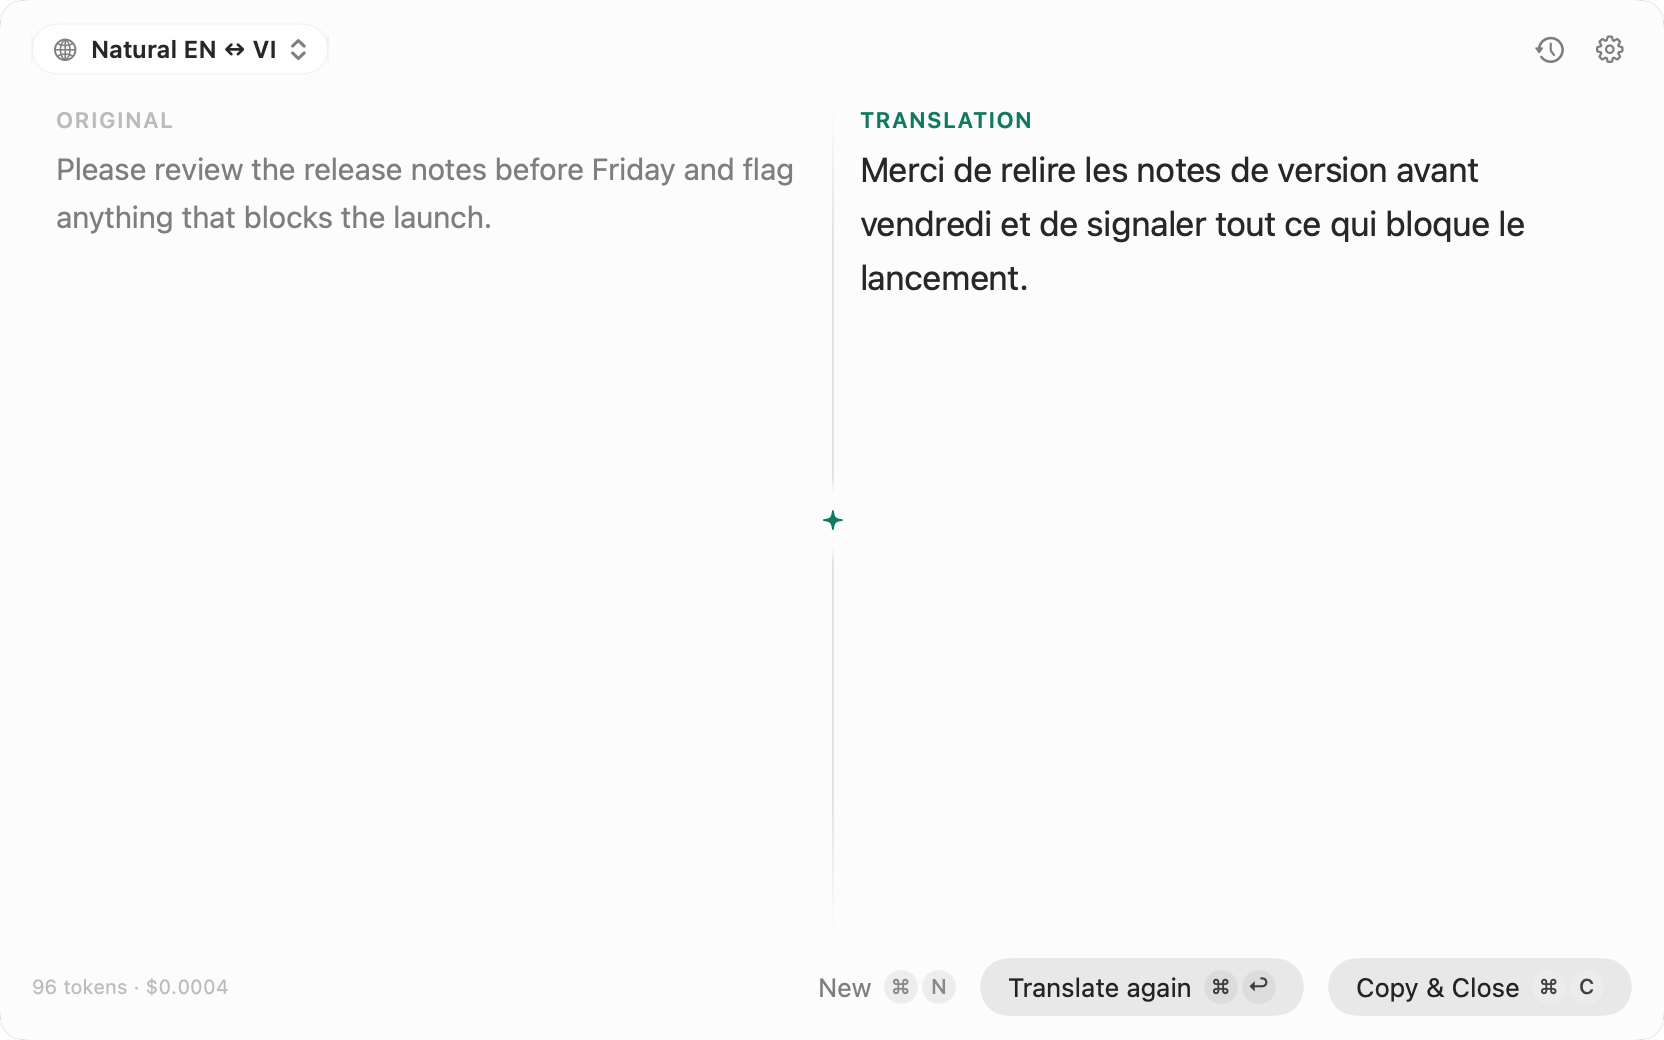
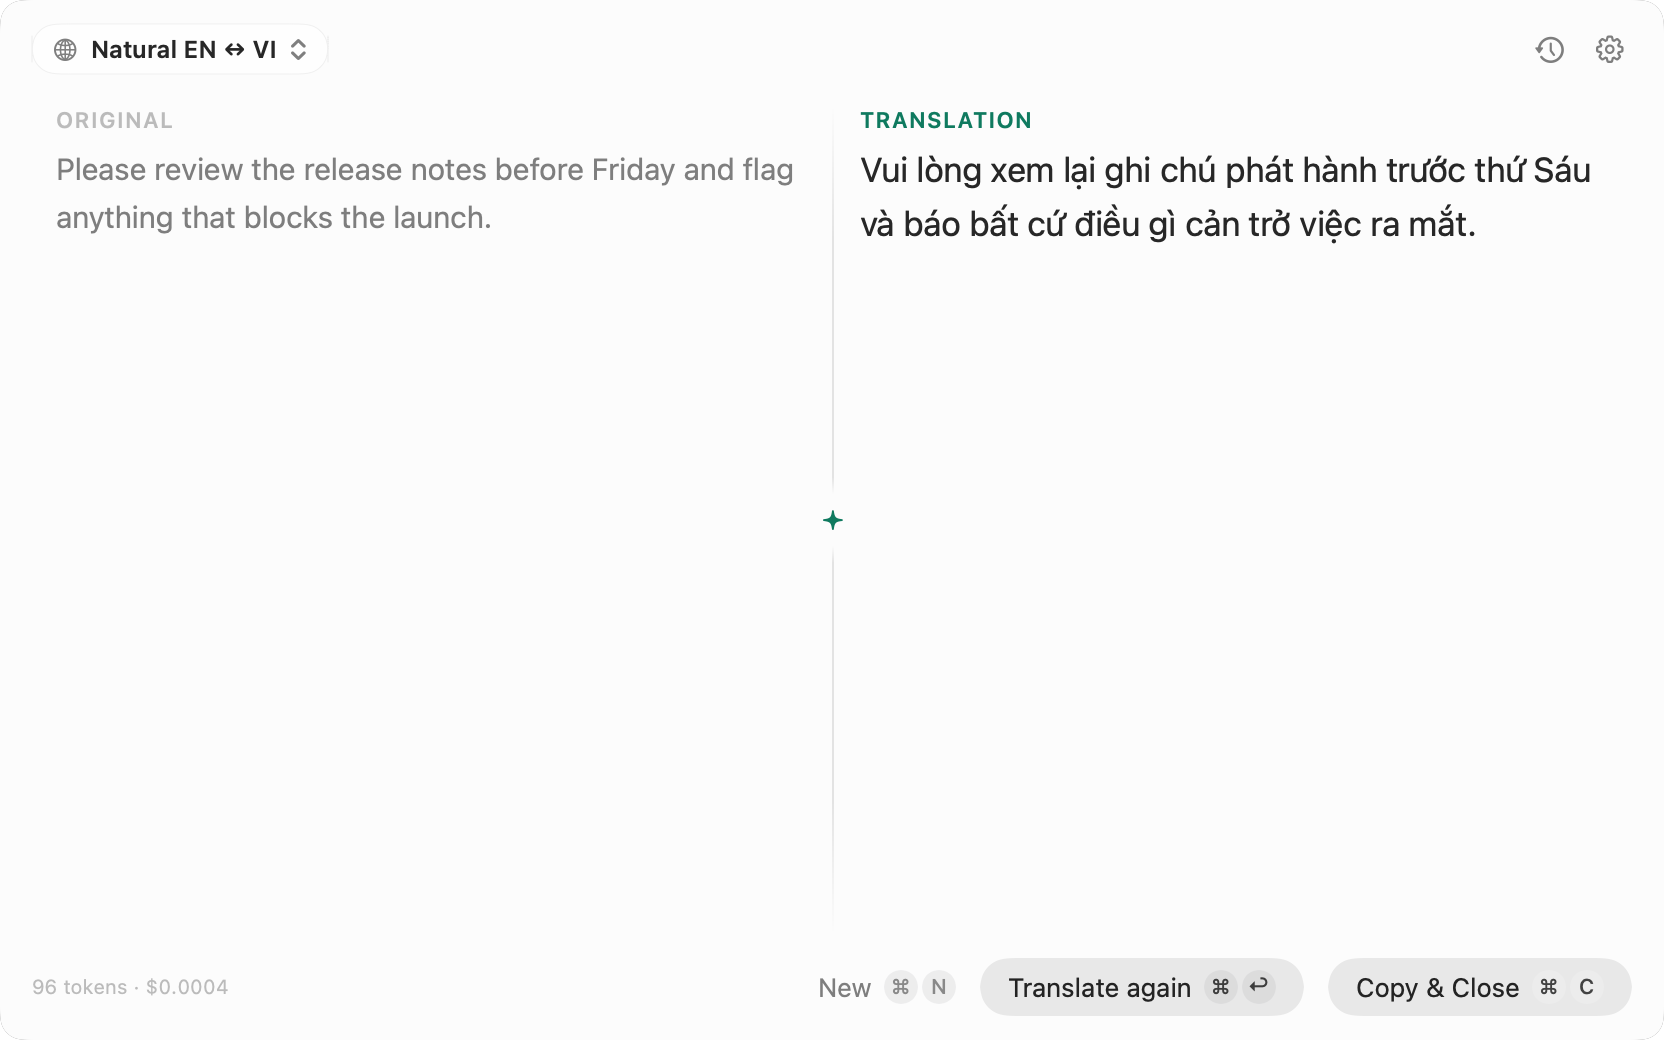
feat(screenshots): translate the sample text into Vietnamese
The popup opens on Natural EN ↔ VI, so its sample translation now reads
in Vietnamese, the same sentence the website's clips show. The site's
popup captures are retaken from it.

Changed region(s): [[0.5, 0.1538, 0.9688, 0.2769]]

diff --git a/TransFlex/Sources/App/ScreenshotMode.swift b/TransFlex/Sources/App/ScreenshotMode.swift
@@ -43,8 +43,8 @@ enum ScreenshotMode {
 
     private static func makeShots() -> [Shot] {
         let presets = samplePresetStore()
-        let source = "Please review the release notes before Friday and flag anything that blocks the launch."
-        let result = "Merci de relire les notes de version avant vendredi et de signaler tout ce qui bloque le lancement."
+        let source = ClipScript.sampleSource
+        let result = ClipScript.sampleTranslation
         let wide = NSSize(width: 832, height: 520)
         let narrow = NSSize(width: 640, height: 520)
 
@@ -149,11 +149,12 @@ enum ScreenshotMode {
         }
         let now = Date()
         let preset = presets.presets.first?.id ?? UUID()
+        let vietnamese = SampleText.vietnamese
         let samples: [(String, String, UUID, String, Double?, TimeInterval)] = [
-            ("Please review the release notes before Friday.", "Merci de relire les notes de version avant vendredi.",
+            ("Please review the release notes before Friday.", vietnamese["historyShort"] ?? "",
              preset, "gpt-4o", 0.0004, -600),
-            ("See you tomorrow.", "A demain.", preset, "gpt-6-luna", nil, -1_200),
-            ("Cette version corrige le bug de connexion.", "This release fixes the sign-in bug.",
+            ("See you tomorrow.", vietnamese["historyTomorrow"] ?? "", preset, "gpt-6-luna", nil, -1_200),
+            (vietnamese["historyFixSource"] ?? "", "This release fixes the sign-in bug.",
              UUID(), "gpt-4o", 0.0004, -86_400),
         ]
         for (input, output, presetID, model, cost, offset) in samples {
@@ -178,7 +179,7 @@ enum ScreenshotMode {
             store = try HistoryStore(inMemory: true)
             try store.insert(HistoryEntry(
                 presetID: presets.presets.first?.id ?? UUID(), providerID: "openai", modelID: "gpt-4o",
-                inputText: nil, outputText: "Merci de relire les notes de version avant vendredi.",
+                inputText: nil, outputText: SampleText.vietnamese["historyShort"] ?? "",
                 hadImage: true, durationMs: 1_400, tokenCount: 880,
                 inputTokens: 820, outputTokens: 60, costUSD: 0.0027
             ))

diff --git a/TransFlex/Sources/App/ClipMode.swift b/TransFlex/Sources/App/ClipMode.swift
@@ -178,7 +178,7 @@ struct ClipScript {
     }
 }
 
-/// Sample output in Vietnamese for `--clips`. It lives in
+/// Sample output in Vietnamese for `--clips` and `--screenshots`. It lives in
 /// SampleText.json because app source stays English (UserFacingEnglishTextTests).
 enum SampleText {
     static let vietnamese: [String: String] = {
